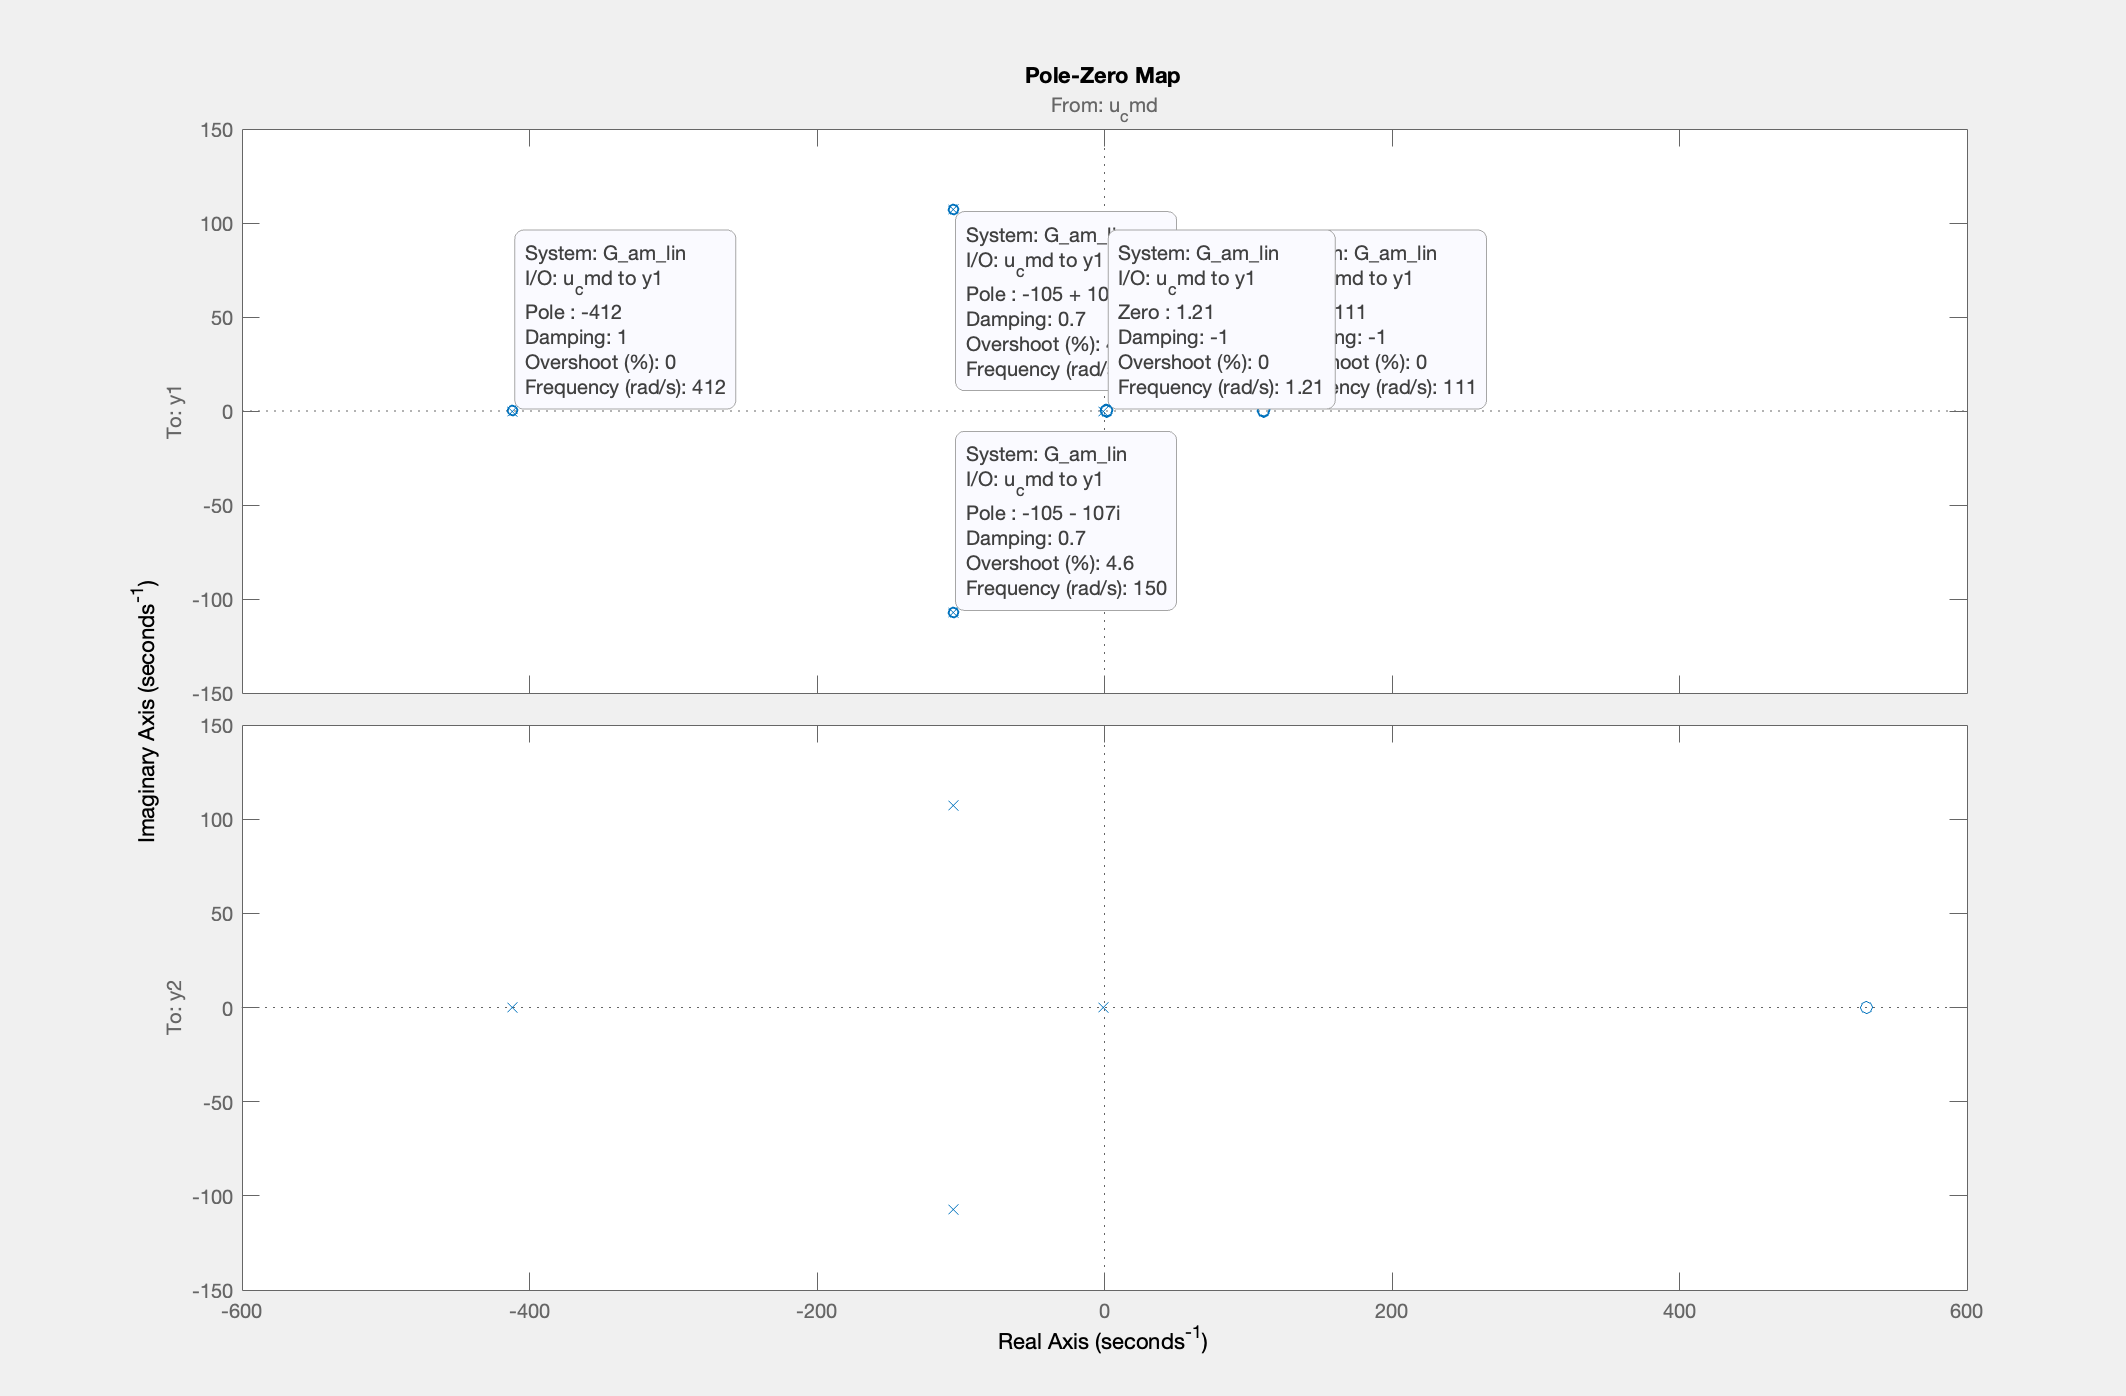
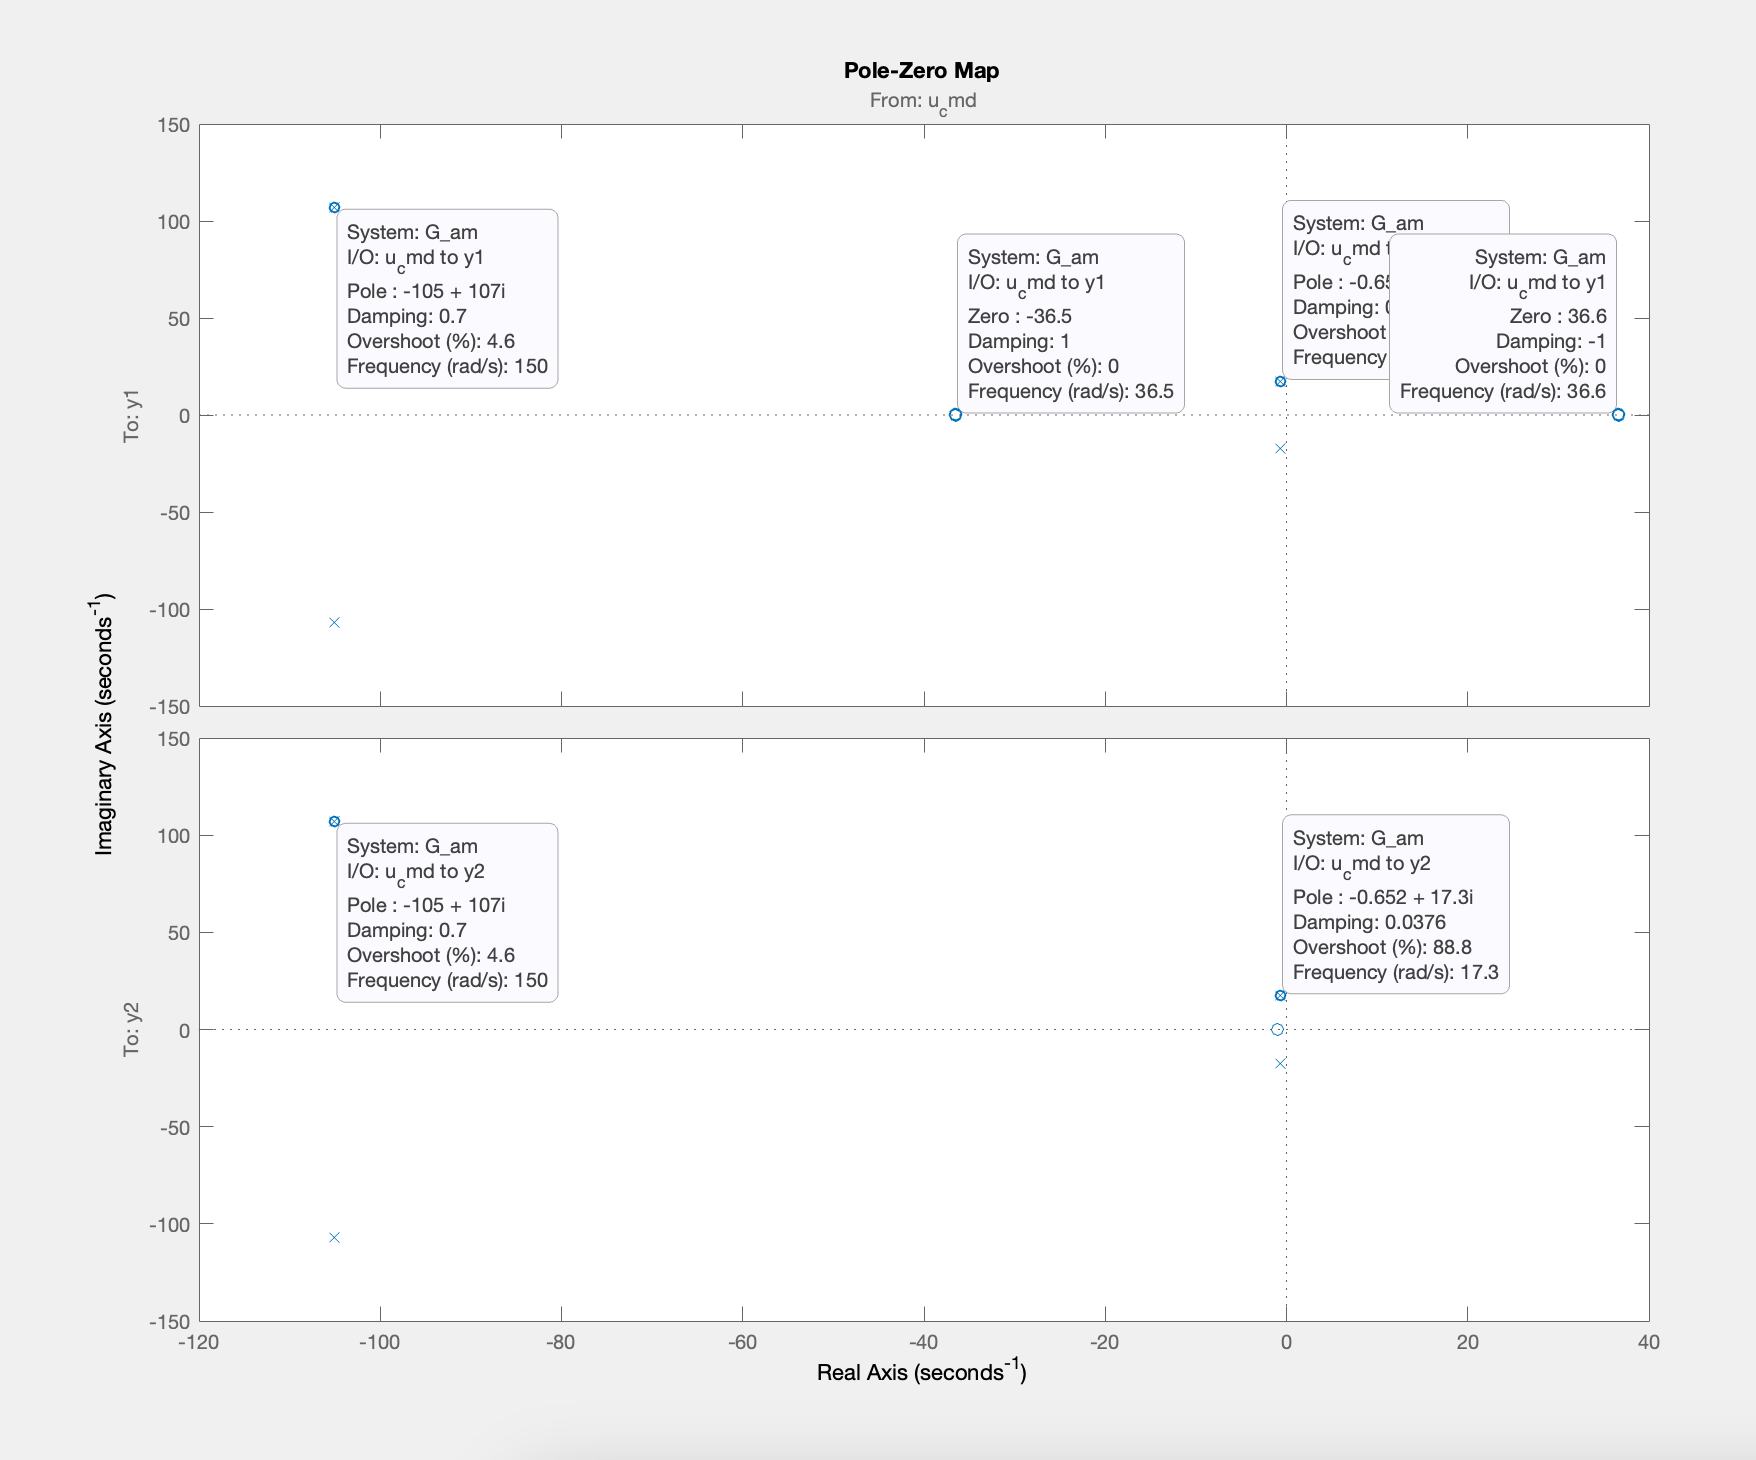
hh

diff --git a/Report_BE_Emilien_Antonin.md b/Report_BE_Emilien_Antonin.md
@@ -34,7 +34,14 @@ Les formes zpk du système de u_cmd à y1, y2 respectivement sont (par exemple G
 
 Voici les pôles et les zéros d'entrée / sortie avec la fonction isomap : 
 ![isomap(G_am_lin)](./Ressources/isomap(G_am_lin).png)
-Il y a donc 5 points sur ce graphique. 3 zéros et 2 pôles. 
+Pour la sortie y1 nous avons 4 pôles et 2 zéros. Alors que pour y2 comme sortie nous avons 4 pôles et 1 zéro. 
+Les composantes instables sont celles avec des parties réels positives. 
+
+
+## 2. Loopshaping(20%)
+## Question 2.1: Damping gain design (5%)
+
+
 
 ## Sources 
 [1] : R. T. Reichert, “Dynamic scheduling of modern-robust-control autopilot designs for missi- les”, IEEE Control Systems, vol. 12, no. 5, pp. 35–42, 1992.
